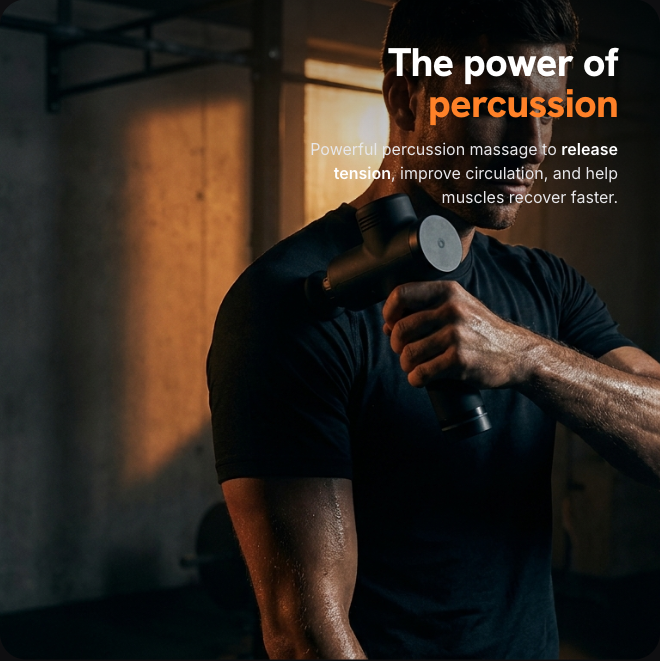
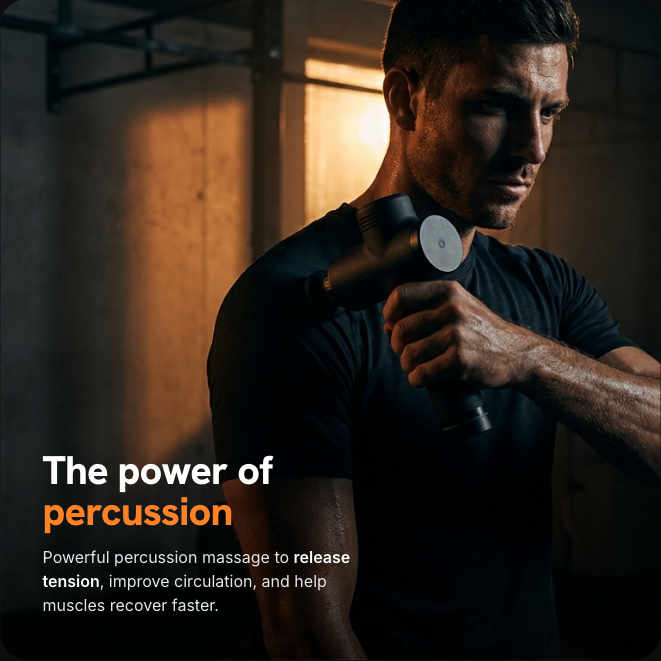
RecoveryM8 PDP: bigger spec image, A+ slides to positions 2-4, sync real gallery images

diff --git a/recoverym8/pdp-mockup.html b/recoverym8/pdp-mockup.html
@@ -178,7 +178,7 @@ img{display:block;max-width:100%}
 .sec.dark .spec .n{color:#fff}
 .sec.dark .spec .l{color:var(--dmuted)}
 /* annotated spec diagram */
-.specdiag{position:relative;display:grid;grid-template-columns:1fr 320px 1fr;align-items:center;gap:30px;max-width:1060px;margin:40px auto 0}
+.specdiag{position:relative;display:grid;grid-template-columns:1fr 460px 1fr;align-items:center;gap:24px;max-width:1200px;margin:40px auto 0}
 .specdiag .col{display:flex;flex-direction:column;gap:52px}
 .specdiag .col.left{align-items:flex-end;text-align:right}
 .specdiag .col.right{align-items:flex-start;text-align:left}
@@ -475,19 +475,20 @@ table.cmp{width:100%;border-collapse:separate;border-spacing:0;border:1px solid 
 <!-- HERO (dark) -->
 <section class="hero"><div class="wrap"><div class="grid">
   <div class="gallery">
-    <div class="main"><span class="flag">Spar 27%</span><img id="mainimg" src="photography/real-product-dramatic.png" alt="Recoverym8+ PRO">
+    <div class="main"><span class="flag">Spar 27%</span><img id="mainimg" src="photography/real-jalal-dark.png" alt="Recoverym8+ PRO">
       <button class="gnav prev" onclick="galleryNav(-1)" aria-label="Forrige billede"><svg viewBox="0 0 24 24"><path d="M15 18l-6-6 6-6"/></svg></button>
       <button class="gnav next" onclick="galleryNav(1)" aria-label="Næste billede"><svg viewBox="0 0 24 24"><path d="M9 6l6 6-6 6"/></svg></button>
     </div>
     <div class="thumbs">
-      <img class="on" src="photography/real-product-dramatic.png" onclick="swapImg(this)" alt="Recoverym8+ PRO i dramatisk lys">
+      <img class="on" src="photography/real-jalal-dark.png" onclick="swapImg(this)" alt="Recoverym8+ PRO">
       <img src="aplus-exports/aplus-3-hero.png" onclick="swapImg(this)" alt="Kraften i percussion-massage">
       <img src="aplus-exports/aplus-1-tech.png" onclick="swapImg(this)" alt="Specifikationer">
       <img src="aplus-exports/aplus-2-benefits.png" onclick="swapImg(this)" alt="Fordele">
-      <img src="photography/real-hero-light.png" onclick="swapImg(this)" alt="Recoverym8+ PRO set forfra">
-      <img src="photography/real-product-macro.png" onclick="swapImg(this)" alt="Nærbillede af hovedet">
-      <img src="photography/product-flatlay.png" onclick="swapImg(this)" alt="Pistol med 7 hoveder">
+      <img src="photography/real-clean.webp" onclick="swapImg(this)" alt="Recoverym8+ PRO set fra siden">
+      <img src="photography/real-kit.webp" onclick="swapImg(this)" alt="Recoverym8+ PRO med 7 hoveder og hardcase">
       <img src="photography/real-inuse-shoulder.webp" onclick="swapImg(this)" alt="I brug på skulderen">
+      <img src="photography/real-inuse-leg.webp" onclick="swapImg(this)" alt="I brug på benet">
+      <img src="photography/real-inuse-bed.webp" onclick="swapImg(this)" alt="I brug derhjemme">
       <img src="photography/real-case.webp" onclick="swapImg(this)" alt="Medfølgende hardcase">
     </div>
   </div>
@@ -580,7 +581,7 @@ table.cmp{width:100%;border-collapse:separate;border-spacing:0;border:1px solid 
       <div class="callout"><div class="ic"><svg viewBox="0 0 24 24"><path d="M12 4v16M8 8l4-4 4 4M8 16l4 4 4-4"/></svg></div><div class="n">12 mm</div><div class="l">Slaglængde (dybde)</div></div>
       <div class="callout"><div class="ic"><svg viewBox="0 0 24 24"><path d="M4 9v6h4l5 4V5L8 9z"/><path d="M17 10a3 3 0 0 1 0 4"/></svg></div><div class="n">60 dB</div><div class="l">Lavt støjniveau</div></div>
     </div>
-    <div class="product"><div class="glow"></div><img src="photography/product-cutout.png" alt="Recoverym8+ PRO"></div>
+    <div class="product"><div class="glow"></div><img src="photography/real-jalal-cutout.png" alt="Recoverym8+ PRO"></div>
     <div class="col right">
       <div class="callout"><div class="ic"><svg viewBox="0 0 24 24"><path d="M4 18a8 8 0 1 1 16 0"/><path d="M12 14l4-3"/></svg></div><div class="n">30</div><div class="l">Hastighedsniveauer</div></div>
       <div class="callout"><div class="ic"><svg viewBox="0 0 24 24"><rect x="3" y="8" width="15" height="9" rx="2"/><path d="M21 11v3"/><path d="M11 10l-2 3h3l-2 3"/></svg></div><div class="n">5 timer</div><div class="l">Batteritid (2500 mAh)</div></div>
@@ -594,7 +595,7 @@ table.cmp{width:100%;border-collapse:separate;border-spacing:0;border:1px solid 
   <div class="head" style="margin-bottom:48px"><div class="eyebrow">Hvorfor den virker</div><h2>Lavet til hverdagen</h2><p class="lead">Fra stive nakker bag skrivebordet til ømme lægge efter løb.</p></div>
 
   <div class="aplus">
-    <div class="media"><img src="photography/dramatic-4-thigh.jpeg" alt=""></div>
+    <div class="media"><img src="photography/real-inuse-leg.webp" alt=""></div>
     <div>
       <div class="eyebrow">Dyb kraft</div>
       <h3>Kraft der når dybt</h3>
@@ -608,7 +609,7 @@ table.cmp{width:100%;border-collapse:separate;border-spacing:0;border:1px solid 
   </div>
 
   <div class="aplus rev">
-    <div class="media"><img src="photography/photo-5-kitchen-shoulder.png" alt=""></div>
+    <div class="media"><img src="photography/real-inuse-bed.webp" alt=""></div>
     <div>
       <div class="eyebrow">Varme + vibration</div>
       <h3>Varme der løsner spændinger</h3>
@@ -622,7 +623,7 @@ table.cmp{width:100%;border-collapse:separate;border-spacing:0;border:1px solid 
   </div>
 
   <div class="aplus">
-    <div class="media"><img src="photography/photo-6-desk-neck.png" alt=""></div>
+    <div class="media"><img src="photography/real-inuse-2.webp" alt=""></div>
     <div>
       <div class="eyebrow">Hverdag</div>
       <h3>Tag den med overalt</h3>
